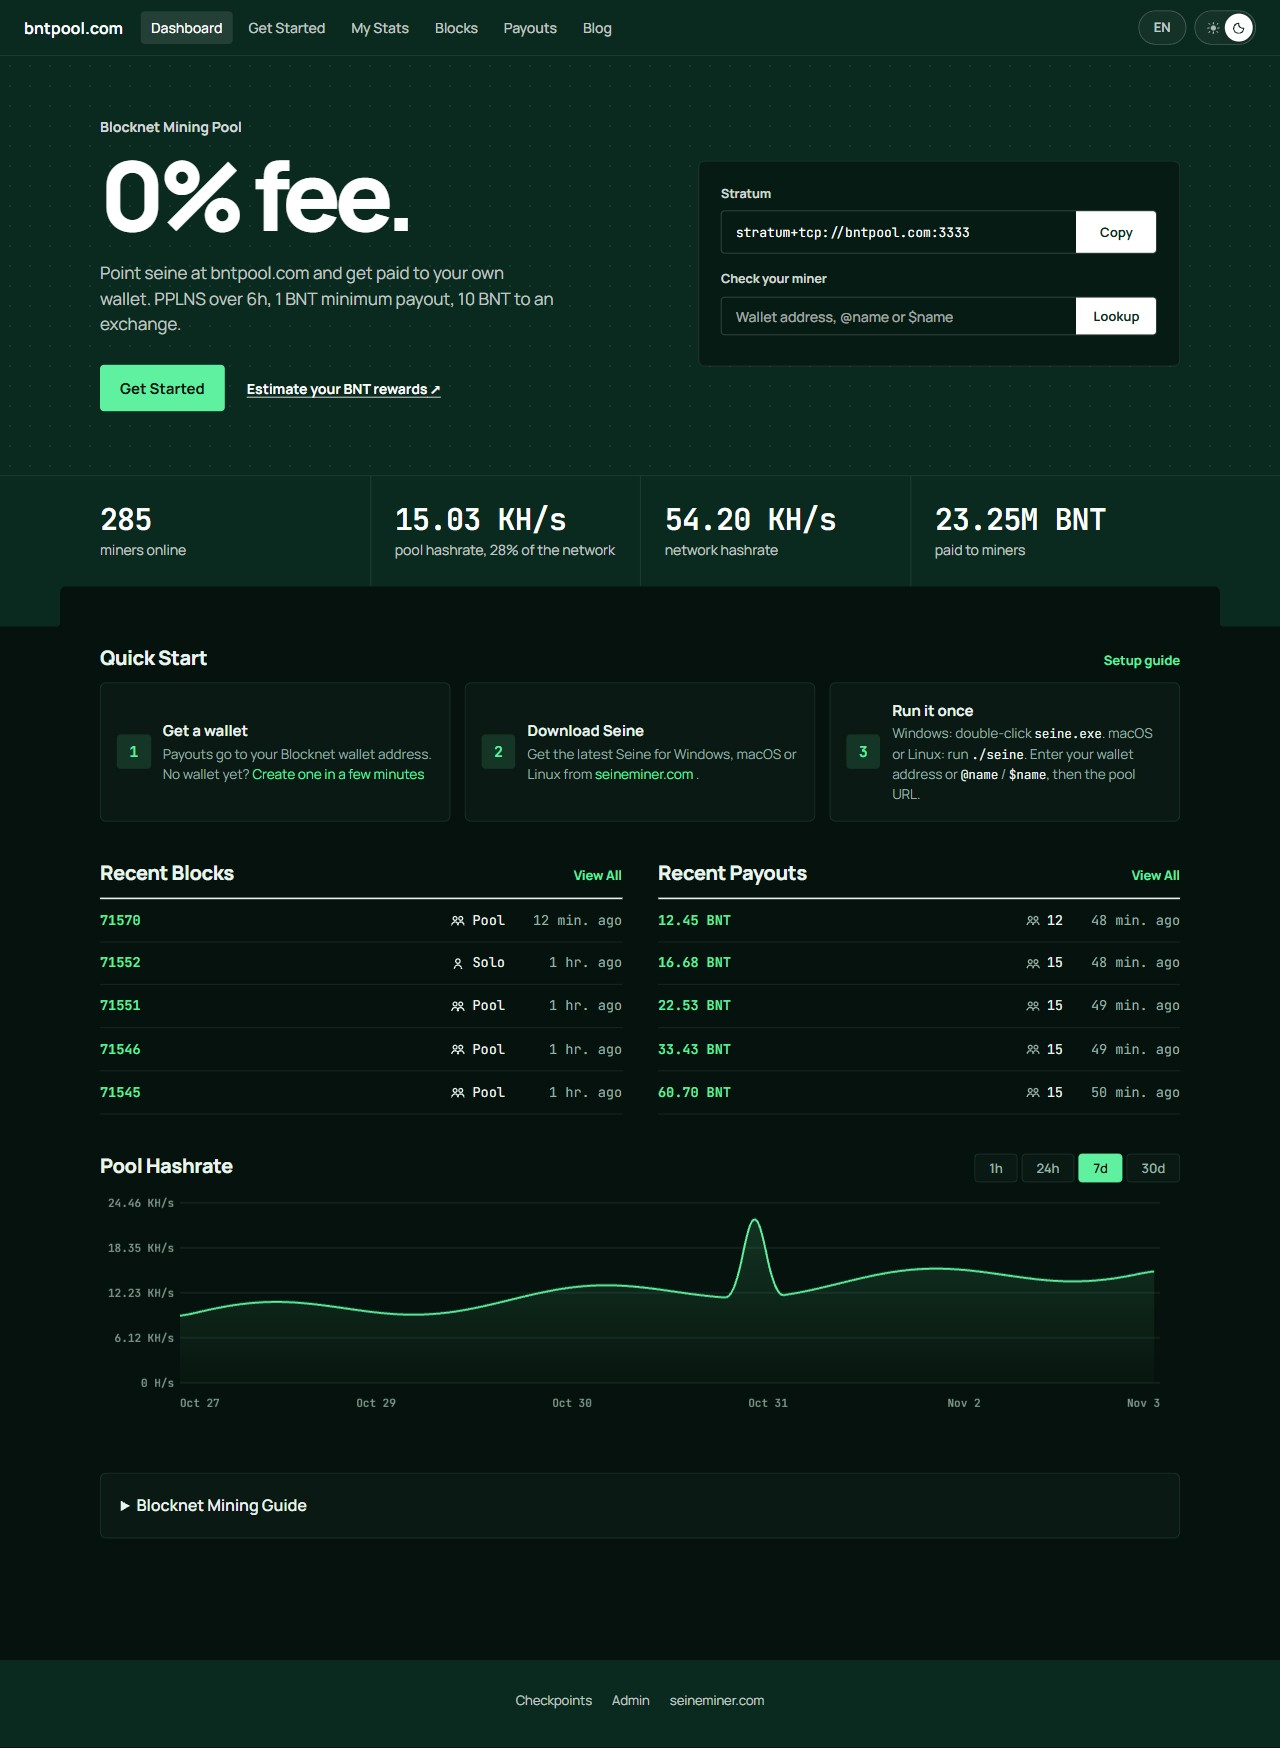
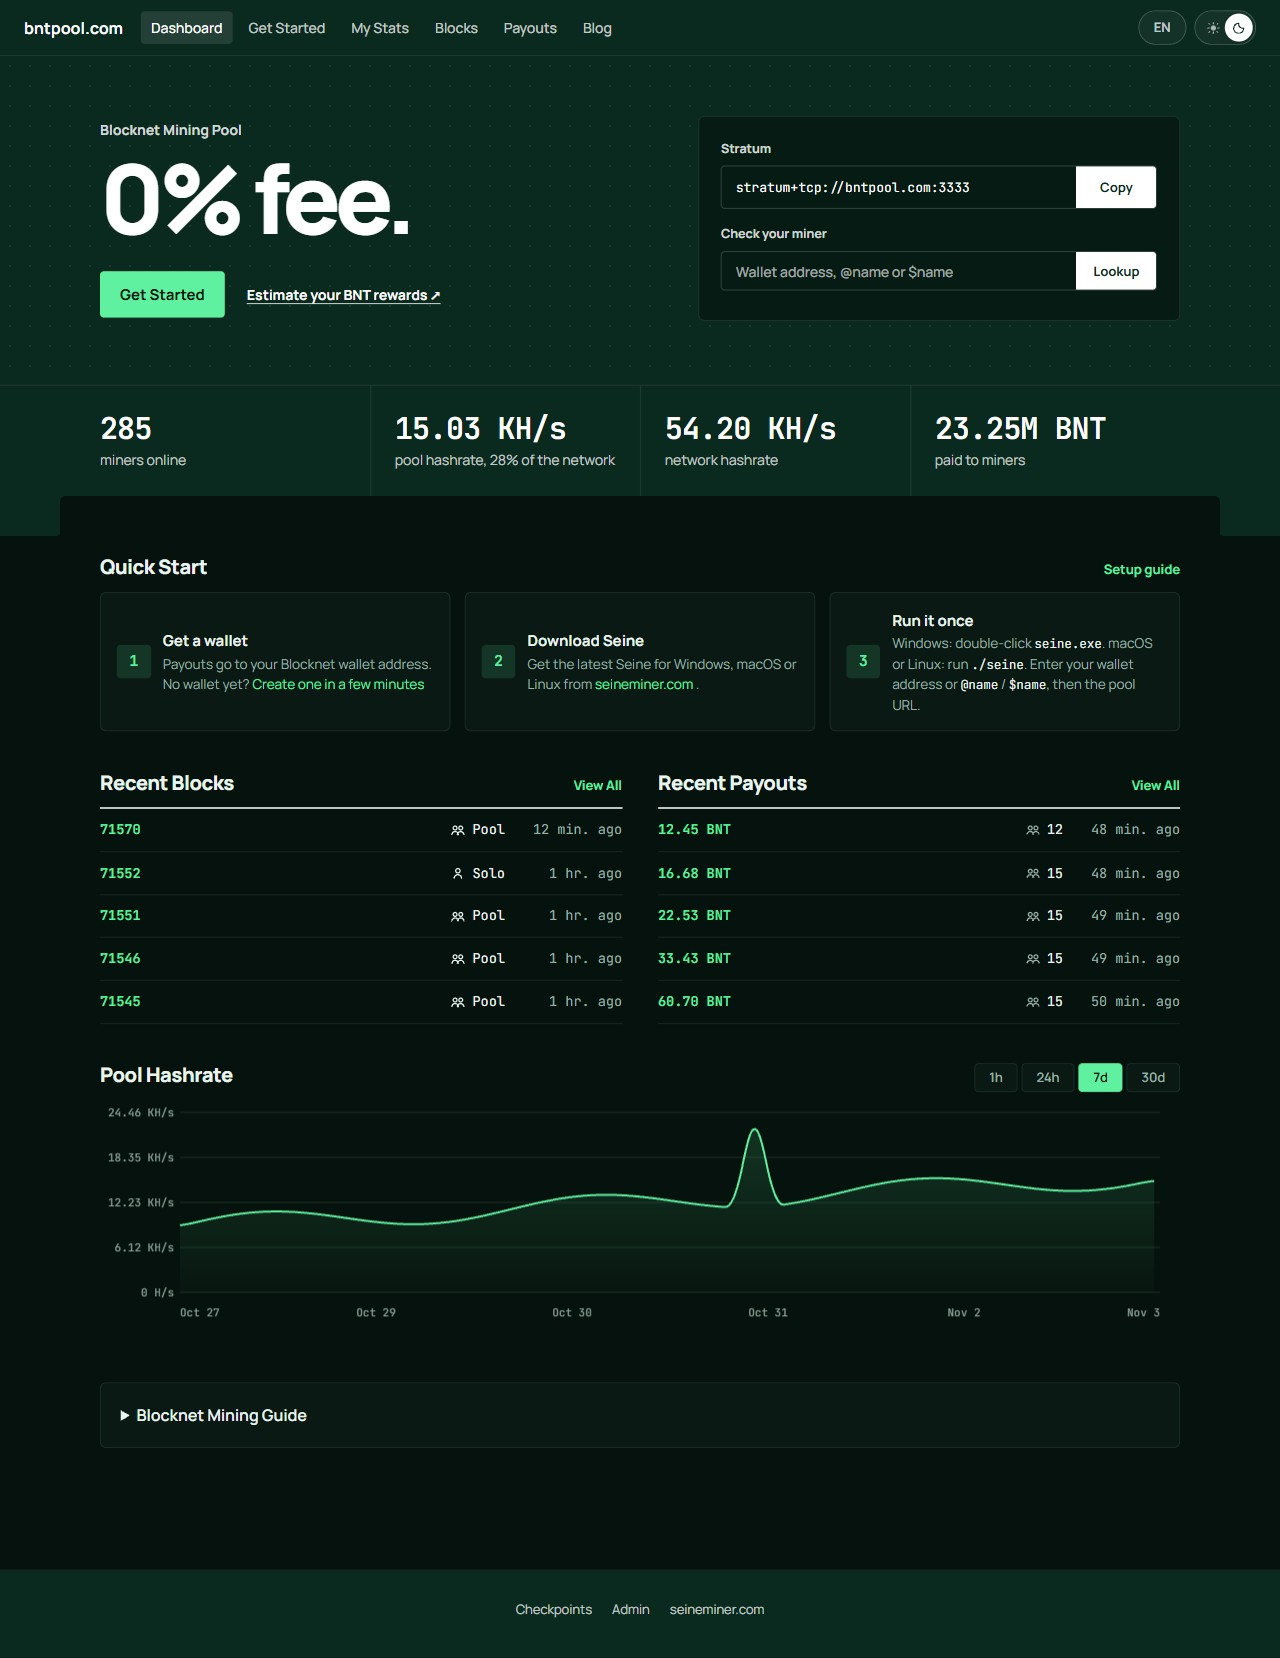
Remove the payout terms line from the front page hero
The first-visit hero now carries the pool fee, Get Started and the rewards
calculator. Payout scheme, window and minimums stay on Get Started. Front
page showcase captures refreshed for the first-visit, failed lookup,
loading and empty states.

Claude-Session: https://claude.ai/code/session_01Aa42KkUxqJJU3FHZ18FCNP

diff --git a/frontend/src/pages/DashboardPage.tsx b/frontend/src/pages/DashboardPage.tsx
@@ -45,14 +45,6 @@ interface DashboardPageProps {
 
 const RECENT_PAYOUT_MS = 60 * 60 * 1000;
 
-function hostOf(url: string | undefined): string {
-  try {
-    return url ? new URL(url).host : location.host;
-  } catch {
-    return location.host;
-  }
-}
-
 interface ReturningMiner {
   status: 'loading' | 'ready' | 'failed';
   miner: MinerResponse | null;
@@ -182,12 +174,6 @@ export function DashboardPage({ api, poolInfo, liveTick, theme, onJumpToStats }:
 
   const fee = poolInfo?.pool_fee_pct;
   const feeLabel = fee != null && Number.isFinite(fee) ? `${fee.toLocaleString(locale, { maximumFractionDigits: 20 })}%` : '-';
-  const coins = (amount: number) => `${new Intl.NumberFormat(locale, { numberingSystem: 'latn', maximumFractionDigits: 8 }).format(amount)} BNT`;
-  const minPayout = poolInfo ? coins(poolInfo.min_payout_amount) : '-';
-  const memoMinimum = poolInfo?.payout_memos_enabled && poolInfo.memo_min_payout_amount != null ? coins(poolInfo.memo_min_payout_amount) : null;
-  const poolHost = hostOf(poolInfo?.pool_url);
-  const pitchValues = [<bdi key="host" dir="ltr">{poolHost}</bdi>, <bdi key="window" dir="ltr">{poolInfo?.pplns_window_duration ?? '-'}</bdi>,
-    <bdi key="min" dir="ltr">{minPayout}</bdi>];
 
   const poolHashrate = stats?.pool?.raw_hashrate ?? stats?.pool?.hashrate ?? 0;
   const networkHashrate = stats?.chain.network_hashrate ?? 0;
@@ -220,9 +206,6 @@ export function DashboardPage({ api, poolInfo, liveTick, theme, onJumpToStats }:
                 <span className="home-kicker">{t('m399')}</span>
                 <span className="home-fee">{t('heroFee', [feeLabel])}</span>
               </h1>
-              <p className="home-sub">{memoMinimum
-                ? tx('heroPitchExchange', [...pitchValues, <bdi key="memo" dir="ltr">{memoMinimum}</bdi>])
-                : tx('heroPitch', pitchValues)}</p>
               <div className="home-cta">
                 <a className="home-btn" href={localizePath('/start')}>{t('m002')}</a>
                 <a className="home-link" href={localizePath('/blog/') + 'estimate-blocknet-mining-rewards/#mining-calculator'}>

diff --git a/frontend/src/styles.css b/frontend/src/styles.css
@@ -559,7 +559,6 @@ html:lang(zh) .page-header h1 {
 .home-title { margin: 0; display: grid; gap: 12px; }
 .home-kicker { font-size: 14px; font-weight: 700; color: var(--hero-soft); letter-spacing: 0; }
 .home-fee { font-size: clamp(3.5rem, 8vw, 6rem); font-weight: 800; line-height: 0.95; letter-spacing: -0.06em; text-wrap: balance; }
-.home-sub { margin: 20px 0 0; font-size: 17px; line-height: 1.5; max-width: 44ch; color: var(--hero-dim); }
 .home-cta { display: flex; flex-wrap: wrap; gap: 12px 22px; align-items: center; margin-top: 28px; }
 .home-btn { background: var(--hero-mint); color: var(--hero-mint-ink); font-size: 15px; font-weight: 700; padding: 12px 20px; border-radius: 4px; }
 .home-btn:hover { text-decoration: none; filter: brightness(1.06); }
@@ -688,7 +687,6 @@ nav.nav-hero .pool-languages ul { background: #0b2a1f; }
 
 @media (max-width: 640px) {
   .home-hero-body { padding: 30px 14px 32px; gap: 26px; }
-  .home-sub { font-size: 15.5px; }
   .home-band { grid-template-columns: minmax(0, 1fr); padding: 0 14px; }
   .home-band > div { padding: 16px 0; border-inline-start: 0; border-top: 1px solid var(--hero-line); }
   .home-band > div:first-child { border-top: 0; }
